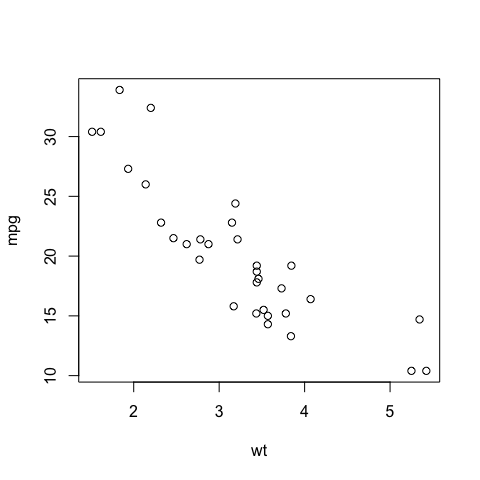
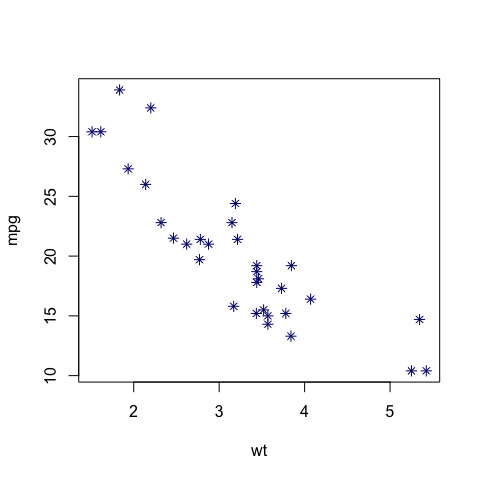
update README examples again

diff --git a/README.md b/README.md
@@ -58,31 +58,13 @@ remove_style()
 You can create you're own styles:
 
 ``` r
-# create a new style:
-plot(mpg ~ wt, data = mtcars)
-```
-
-![](README-unnamed-chunk-3-1.png)
-
-``` r
-
-blue <- new_style(graphics = list(plot.xy = list(col = "navyblue")))
-style(blue)
-plot(mpg ~ wt, data = mtcars)
-```
-
-![](README-unnamed-chunk-3-2.png)
-
-``` r
-
-
 blue_stars <- new_style(par = list(pch = 8),
                   graphics = list(plot.xy = list(col = "navyblue")))
 style(blue_stars)
 plot(mpg ~ wt, data = mtcars)
 ```
 
-![](README-unnamed-chunk-3-3.png)
+![](README-unnamed-chunk-3-1.png)
 
 Once we have a style we like, we can apply it to all of our plots:
 
